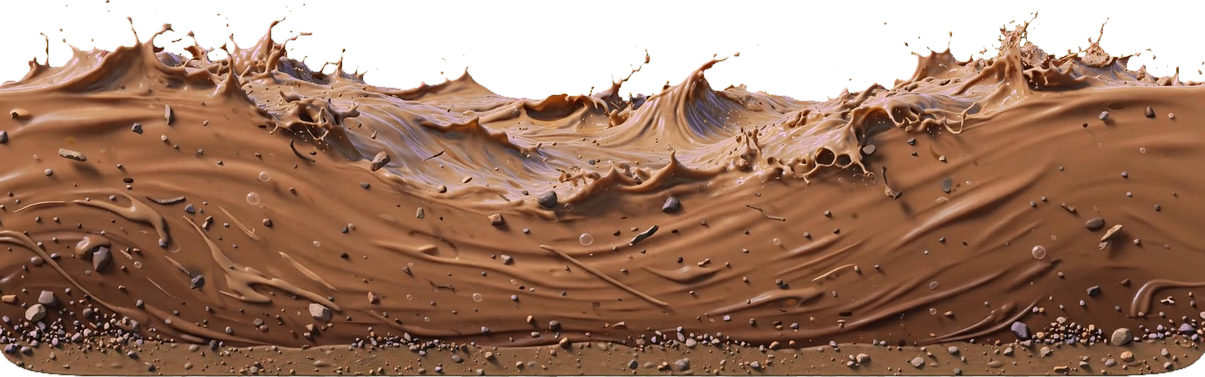
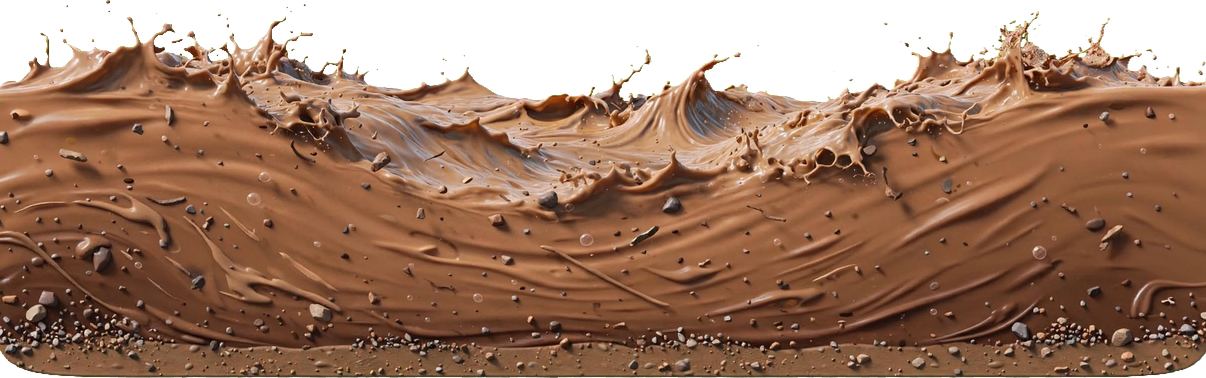
2-2 flood: Glen's mudslide front leads the flowing mud (solid mud at the deadly line, spray and rocks flying ahead); grey rocks no longer tinted by the despill
Claude-Session: https://claude.ai/code/session_01VGYkixGhyk7Vwn3kRisrcq

diff --git a/game/sprites.js b/game/sprites.js
@@ -4117,4 +4117,4 @@ window.SPRITE_DATA = {
   "align": "feet"
  }
 };
-window.ITEM_LIST = ["arrow", "barley", "beehive_tree", "boulder_grey", "boulder_mound", "boulder_tan", "bread", "bridge_corner", "bridge_l_a", "bridge_l_b", "bridge_l_c", "bridge_l_d", "bridge_m_a", "bridge_m_b", "bridge_m_c", "bridge_m_d", "bridge_post", "bridge_s_a", "bridge_s_b", "bridge_s_c", "bridge_tiny_a", "bridge_tiny_b", "bridge_tiny_c", "bridge_xl_a", "bridge_xl_b", "bridge_xl_c", "brother_elihu", "brother_nethanel", "brother_ozem", "brother_raddai", "bush", "cairn_down", "cairn_up", "camp_jar_small", "camp_shields", "camp_spears", "campfire", "carrier_jar", "cave", "cave_1", "cave_2", "cave_exit", "cave_ledge", "cave_rock_tile", "cave_rock_top", "chariot_wheel", "chariot_wheel_broken", "chariot_wheel_cracked", "cheese", "cliff_edge", "cloth_stall", "crops", "date_palm", "dates", "davids_journal", "fig_cake", "fig_tree", "figs", "fold_wall_end_l", "fold_wall_end_r", "fold_wall_mid_1", "fold_wall_mid_2", "fold_wall_mid_3", "fold_wall_post", "gate_panel", "gate_post", "gift_bread", "gift_cheese", "gift_figs", "gift_honey", "gift_oil", "grain_sack", "grape_vine", "grapes", "hall_lamp_lit", "hall_lamp_unlit", "honey", "lamp_lit", "lamp_unlit", "ledge_chunk_1", "ledge_chunk_2", "ledge_chunk_3", "ledge_chunk_4", "ledge_cracked", "ledge_long", "ledge_medium", "ledge_short", "lentils", "log_broken", "log_long", "log_short", "map_cairn", "map_stop", "map_stop_done", "map_stop_next", "mud_body", "mud_flow", "mud_slick", "name_letter_aleph", "name_letter_bet", "name_letter_dalet", "name_letter_gimel", "name_letter_he", "name_letter_kaf", "name_letter_lamed", "name_letter_mem", "name_letter_shin", "name_letter_waw", "name_letter_yod", "name_stone_1", "name_stone_2", "name_stone_3", "name_stone_4", "name_stone_broken", "name_stone_glow", "name_stone_plain", "oak", "oak_fallen", "oak_gashed", "oak_split", "oleander", "olive_golden", "olive_green", "olive_purple", "olive_tree", "olives", "pen_pillar_l", "pen_pillar_r", "pen_post_tall", "pen_wall_1", "pen_wall_2", "pen_wall_low", "phil_sil_archer", "phil_sil_chariot", "phil_sil_goliath", "phil_sil_rider", "phil_sil_shield1", "phil_sil_shield2", "phil_sil_shield3", "phil_sil_small1", "phil_sil_small2", "phil_sil_small3", "phil_sil_spear1", "phil_sil_spear2", "phil_sil_spear3", "phil_sil_squad", "poison_berries", "pomegranate", "pomegranate_tree", "quest_peg", "quest_string", "quest_wax", "raisins", "reed_pool", "roasted_grain", "rock_ledge", "rock_pile_grey", "rock_pile_tan", "rope_bridge", "rope_bridge_and_post", "rubble_dirt", "rubble_mound", "rubble_sticks", "rubble_stones", "shelter_rock", "shepherd_bag", "signpost", "sling_pouch", "spike_pit", "staff", "stalactite", "stalagmite", "stone", "stone_enemy_a", "stone_enemy_b", "stone_enemy_c", "stone_glow", "stone_gray_big", "stone_remembrance", "stone_remembrance_glow", "stone_wall", "stream_back", "stream_near", "stream_water", "stump_cut", "stump_roots", "tent", "tent_family", "tent_goat", "tent_shepherd", "thistle", "thorn_bush", "throne", "tobi_horn", "tobi_pack", "tobi_sandal", "tobi_staff", "tobi_waterskin", "town_barn", "town_barn_long", "town_brick_stack", "town_clay_pots", "town_fig_rack", "town_grain_baskets", "town_house_big", "town_house_corner", "town_house_fort", "town_house_parapet", "town_house_shed", "town_house_small", "town_house_tall", "town_house_tower", "town_hut_round", "town_ladder", "town_ladder_wall", "town_limestone_blocks", "town_log_stack", "town_low_wall", "town_rock_heap", "town_roof_slab", "town_roof_tiles", "town_side_beam", "town_side_brick_wall", "town_side_clay_pots", "town_side_fig_rack", "town_side_grain_baskets", "town_side_ladder_wall", "town_side_limestone_wall", "town_side_log_stack", "town_side_low_wall", "town_side_rock_heap", "town_side_roof_tiles", "town_side_stairs", "town_side_stone_house", "town_side_thatched_hut", "town_side_threshing_floor", "town_side_window_frame", "town_stair_tower", "town_stairs", "town_stone_house", "town_thatched_hut", "town_threshing_floor", "town_window_frame", "toxic_mushroom", "tw_body", "tw_frame_tower", "tw_ladder_cut", "tw_shutter", "tw_shutter_edge", "tw_shutter_open", "tw_wheel", "tw_wheel_broken", "tw_wreck", "undercut_bank", "vineyard", "wagon_arms", "wagon_arms_34", "wagon_jars", "wagon_jars_34", "wagon_rails", "wasp_large", "wasp_small", "wild_gourds", "wineskin"];
+window.ITEM_LIST = ["arrow", "barley", "beehive_tree", "boulder_grey", "boulder_mound", "boulder_tan", "bread", "bridge_corner", "bridge_l_a", "bridge_l_b", "bridge_l_c", "bridge_l_d", "bridge_m_a", "bridge_m_b", "bridge_m_c", "bridge_m_d", "bridge_post", "bridge_s_a", "bridge_s_b", "bridge_s_c", "bridge_tiny_a", "bridge_tiny_b", "bridge_tiny_c", "bridge_xl_a", "bridge_xl_b", "bridge_xl_c", "brother_elihu", "brother_nethanel", "brother_ozem", "brother_raddai", "bush", "cairn_down", "cairn_up", "camp_jar_small", "camp_shields", "camp_spears", "campfire", "carrier_jar", "cave", "cave_1", "cave_2", "cave_exit", "cave_ledge", "cave_rock_tile", "cave_rock_top", "chariot_wheel", "chariot_wheel_broken", "chariot_wheel_cracked", "cheese", "cliff_edge", "cloth_stall", "crops", "date_palm", "dates", "davids_journal", "fig_cake", "fig_tree", "figs", "fold_wall_end_l", "fold_wall_end_r", "fold_wall_mid_1", "fold_wall_mid_2", "fold_wall_mid_3", "fold_wall_post", "gate_panel", "gate_post", "gift_bread", "gift_cheese", "gift_figs", "gift_honey", "gift_oil", "grain_sack", "grape_vine", "grapes", "hall_lamp_lit", "hall_lamp_unlit", "honey", "lamp_lit", "lamp_unlit", "ledge_chunk_1", "ledge_chunk_2", "ledge_chunk_3", "ledge_chunk_4", "ledge_cracked", "ledge_long", "ledge_medium", "ledge_short", "lentils", "log_broken", "log_long", "log_short", "map_cairn", "map_stop", "map_stop_done", "map_stop_next", "mud_body", "mud_flow", "mud_front", "mud_slick", "name_letter_aleph", "name_letter_bet", "name_letter_dalet", "name_letter_gimel", "name_letter_he", "name_letter_kaf", "name_letter_lamed", "name_letter_mem", "name_letter_shin", "name_letter_waw", "name_letter_yod", "name_stone_1", "name_stone_2", "name_stone_3", "name_stone_4", "name_stone_broken", "name_stone_glow", "name_stone_plain", "oak", "oak_fallen", "oak_gashed", "oak_split", "oleander", "olive_golden", "olive_green", "olive_purple", "olive_tree", "olives", "pen_pillar_l", "pen_pillar_r", "pen_post_tall", "pen_wall_1", "pen_wall_2", "pen_wall_low", "phil_sil_archer", "phil_sil_chariot", "phil_sil_goliath", "phil_sil_rider", "phil_sil_shield1", "phil_sil_shield2", "phil_sil_shield3", "phil_sil_small1", "phil_sil_small2", "phil_sil_small3", "phil_sil_spear1", "phil_sil_spear2", "phil_sil_spear3", "phil_sil_squad", "poison_berries", "pomegranate", "pomegranate_tree", "quest_peg", "quest_string", "quest_wax", "raisins", "reed_pool", "roasted_grain", "rock_ledge", "rock_pile_grey", "rock_pile_tan", "rope_bridge", "rope_bridge_and_post", "rubble_dirt", "rubble_mound", "rubble_sticks", "rubble_stones", "shelter_rock", "shepherd_bag", "signpost", "sling_pouch", "spike_pit", "staff", "stalactite", "stalagmite", "stone", "stone_enemy_a", "stone_enemy_b", "stone_enemy_c", "stone_glow", "stone_gray_big", "stone_remembrance", "stone_remembrance_glow", "stone_wall", "stream_back", "stream_near", "stream_water", "stump_cut", "stump_roots", "tent", "tent_family", "tent_goat", "tent_shepherd", "thistle", "thorn_bush", "throne", "tobi_horn", "tobi_pack", "tobi_sandal", "tobi_staff", "tobi_waterskin", "town_barn", "town_barn_long", "town_brick_stack", "town_clay_pots", "town_fig_rack", "town_grain_baskets", "town_house_big", "town_house_corner", "town_house_fort", "town_house_parapet", "town_house_shed", "town_house_small", "town_house_tall", "town_house_tower", "town_hut_round", "town_ladder", "town_ladder_wall", "town_limestone_blocks", "town_log_stack", "town_low_wall", "town_rock_heap", "town_roof_slab", "town_roof_tiles", "town_side_beam", "town_side_brick_wall", "town_side_clay_pots", "town_side_fig_rack", "town_side_grain_baskets", "town_side_ladder_wall", "town_side_limestone_wall", "town_side_log_stack", "town_side_low_wall", "town_side_rock_heap", "town_side_roof_tiles", "town_side_stairs", "town_side_stone_house", "town_side_thatched_hut", "town_side_threshing_floor", "town_side_window_frame", "town_stair_tower", "town_stairs", "town_stone_house", "town_thatched_hut", "town_threshing_floor", "town_window_frame", "toxic_mushroom", "tw_body", "tw_frame_tower", "tw_ladder_cut", "tw_shutter", "tw_shutter_edge", "tw_shutter_open", "tw_wheel", "tw_wheel_broken", "tw_wreck", "undercut_bank", "vineyard", "wagon_arms", "wagon_arms_34", "wagon_jars", "wagon_jars_34", "wagon_rails", "wasp_large", "wasp_small", "wild_gourds", "wineskin"];

diff --git a/game/world2.js b/game/world2.js
@@ -428,22 +428,22 @@ function drawFlood(camX) {
   ctx.save();
   const top = GR * T - W2.FLOOD_HEIGHT * T * flood.level;
   const flow = ITEM.mud_flow;
-  if (flow && flow.naturalWidth) {   // Glen's flowing mud (david-sling-art/mud_flow.png): copies side by side (every other one mirrored so they join), rolling along
+  if (flow && flow.naturalWidth) {   // Glen's mud (david-sling-art/mud_flow.png, mud_front.png): his "coming in" front, the flowing mud behind it in copies side by side (every other one mirrored so they join), rolling along
     const k = (H + 30 - top) / (flow.naturalHeight * 0.8), fw = flow.naturalWidth * k, fh = flow.naturalHeight * k, y = top - fh * 0.2;
-    ctx.beginPath(); ctx.moveTo(-10, H);   // the curling nose from floodTop, raised so the splashes clear it
-    for (let sx = -10; sx <= x1; sx += 8) ctx.lineTo(sx, floodTop(sx + camX) - fh * 0.2);
-    ctx.lineTo(x1 + 18, GR * T + 6 - fh * 0.08); ctx.lineTo(x1 + 18, H); ctx.closePath(); ctx.clip();
-    const o = (performance.now() / 1000 * 160) % (2 * fw);
-    for (let i = 0, xr = x1 + 2 * fw - o; xr > -fw; i++, xr -= fw) {
+    const front = ITEM.mud_front && ITEM.mud_front.naturalWidth ? ITEM.mud_front : null;
+    const surf = y + fh * 0.236, ffh = fh * 0.93, ffw = front ? front.naturalWidth * ffh / front.naturalHeight : 0;
+    const xf = x1 - ffw * 0.85 + Math.sin(performance.now() / 300) * 6;   // the front's left edge: its solid mud reaches the deadly line, the spray flies past it
+    ctx.beginPath();
+    if (front) ctx.rect(-10, 0, xf + ffw * 0.1 + 10, H);
+    else { ctx.moveTo(-10, H); for (let sx = -10; sx <= x1; sx += 8) ctx.lineTo(sx, floodTop(sx + camX) - fh * 0.2); ctx.lineTo(x1 + 18, GR * T + 6 - fh * 0.08); ctx.lineTo(x1 + 18, H); ctx.closePath(); }
+    ctx.save(); ctx.clip();
+    const right = front ? xf + ffw * 0.1 : x1, o = (performance.now() / 1000 * 160) % (2 * fw);
+    for (let i = 0, xr = right + 2 * fw - o; xr > -fw; i++, xr -= fw) {
       if (i % 2) { ctx.save(); ctx.translate(xr, 0); ctx.scale(-1, 1); ctx.drawImage(flow, 0, y, fw, fh); ctx.restore(); }
       else ctx.drawImage(flow, xr - fw, y, fw, fh);
     }
     ctx.restore();
-    ctx.save(); const now = performance.now() / 1000;
-    for (let k2 = 0; k2 < 14; k2++) {   // churning spray at the tip
-      const a = k2 * 2.4 + now * 3, fx = x1 - 20 - (k2 % 5) * 18 + Math.sin(a) * 8, fy = floodTop(flood.x - 20 - (k2 % 5) * 18) + 10 + (k2 * 13) % 60 + Math.cos(a) * 6;
-      ctx.fillStyle = `rgba(150,105,70,${0.55 + 0.3 * Math.sin(a)})`; ctx.beginPath(); ctx.arc(fx, fy, 5 + (k2 % 3) * 3, 0, Math.PI * 2); ctx.fill();
-    }
+    if (front) ctx.drawImage(front, xf, surf - ffh * 0.22, ffw, ffh);
     ctx.restore(); return;
   }
   const g = ctx.createLinearGradient(0, top - 20, 0, H);

diff --git a/HANDOFF.md b/HANDOFF.md
@@ -150,7 +150,8 @@ If a chat session closes, start here. Last updated 2026-10-11 (end of a long ses
   the tortoise pool's is GR*T+30 and see-through so his shell shows. Not changed: 2-2's flash flood (muddy, drawn) and
   2-3's waterfall (Glen's sprite).
   Glen's mud (david-sling-art/mud_slab.png, mud_flow.png, mud_trench.png): 2-2's flash flood is `mud_flow` (the
-  splashing wall), copies side by side, every other one mirrored, rolling along, clipped to floodTop's curling nose
+  splashing wall) in copies side by side, every other one mirrored, rolling along, led by `mud_front` (his "coming in"
+  picture, mud_front.png: solid mud reaches the deadly line, spray and rocks fly past it)
   (the drawn version is still the fallback); 3-4's mud slicks are `mud_slick` sunk into the topsoil (world3 drawMud);
   `mud_body` (mirrored, seamless) is spare. mud_trench (a 3D cross-section) is saved but not used.
 - **The End of World 6 is built** (2026-10-18; world6.js `w6ending`, after 6-4's finish; `?w6end=N` to test).
